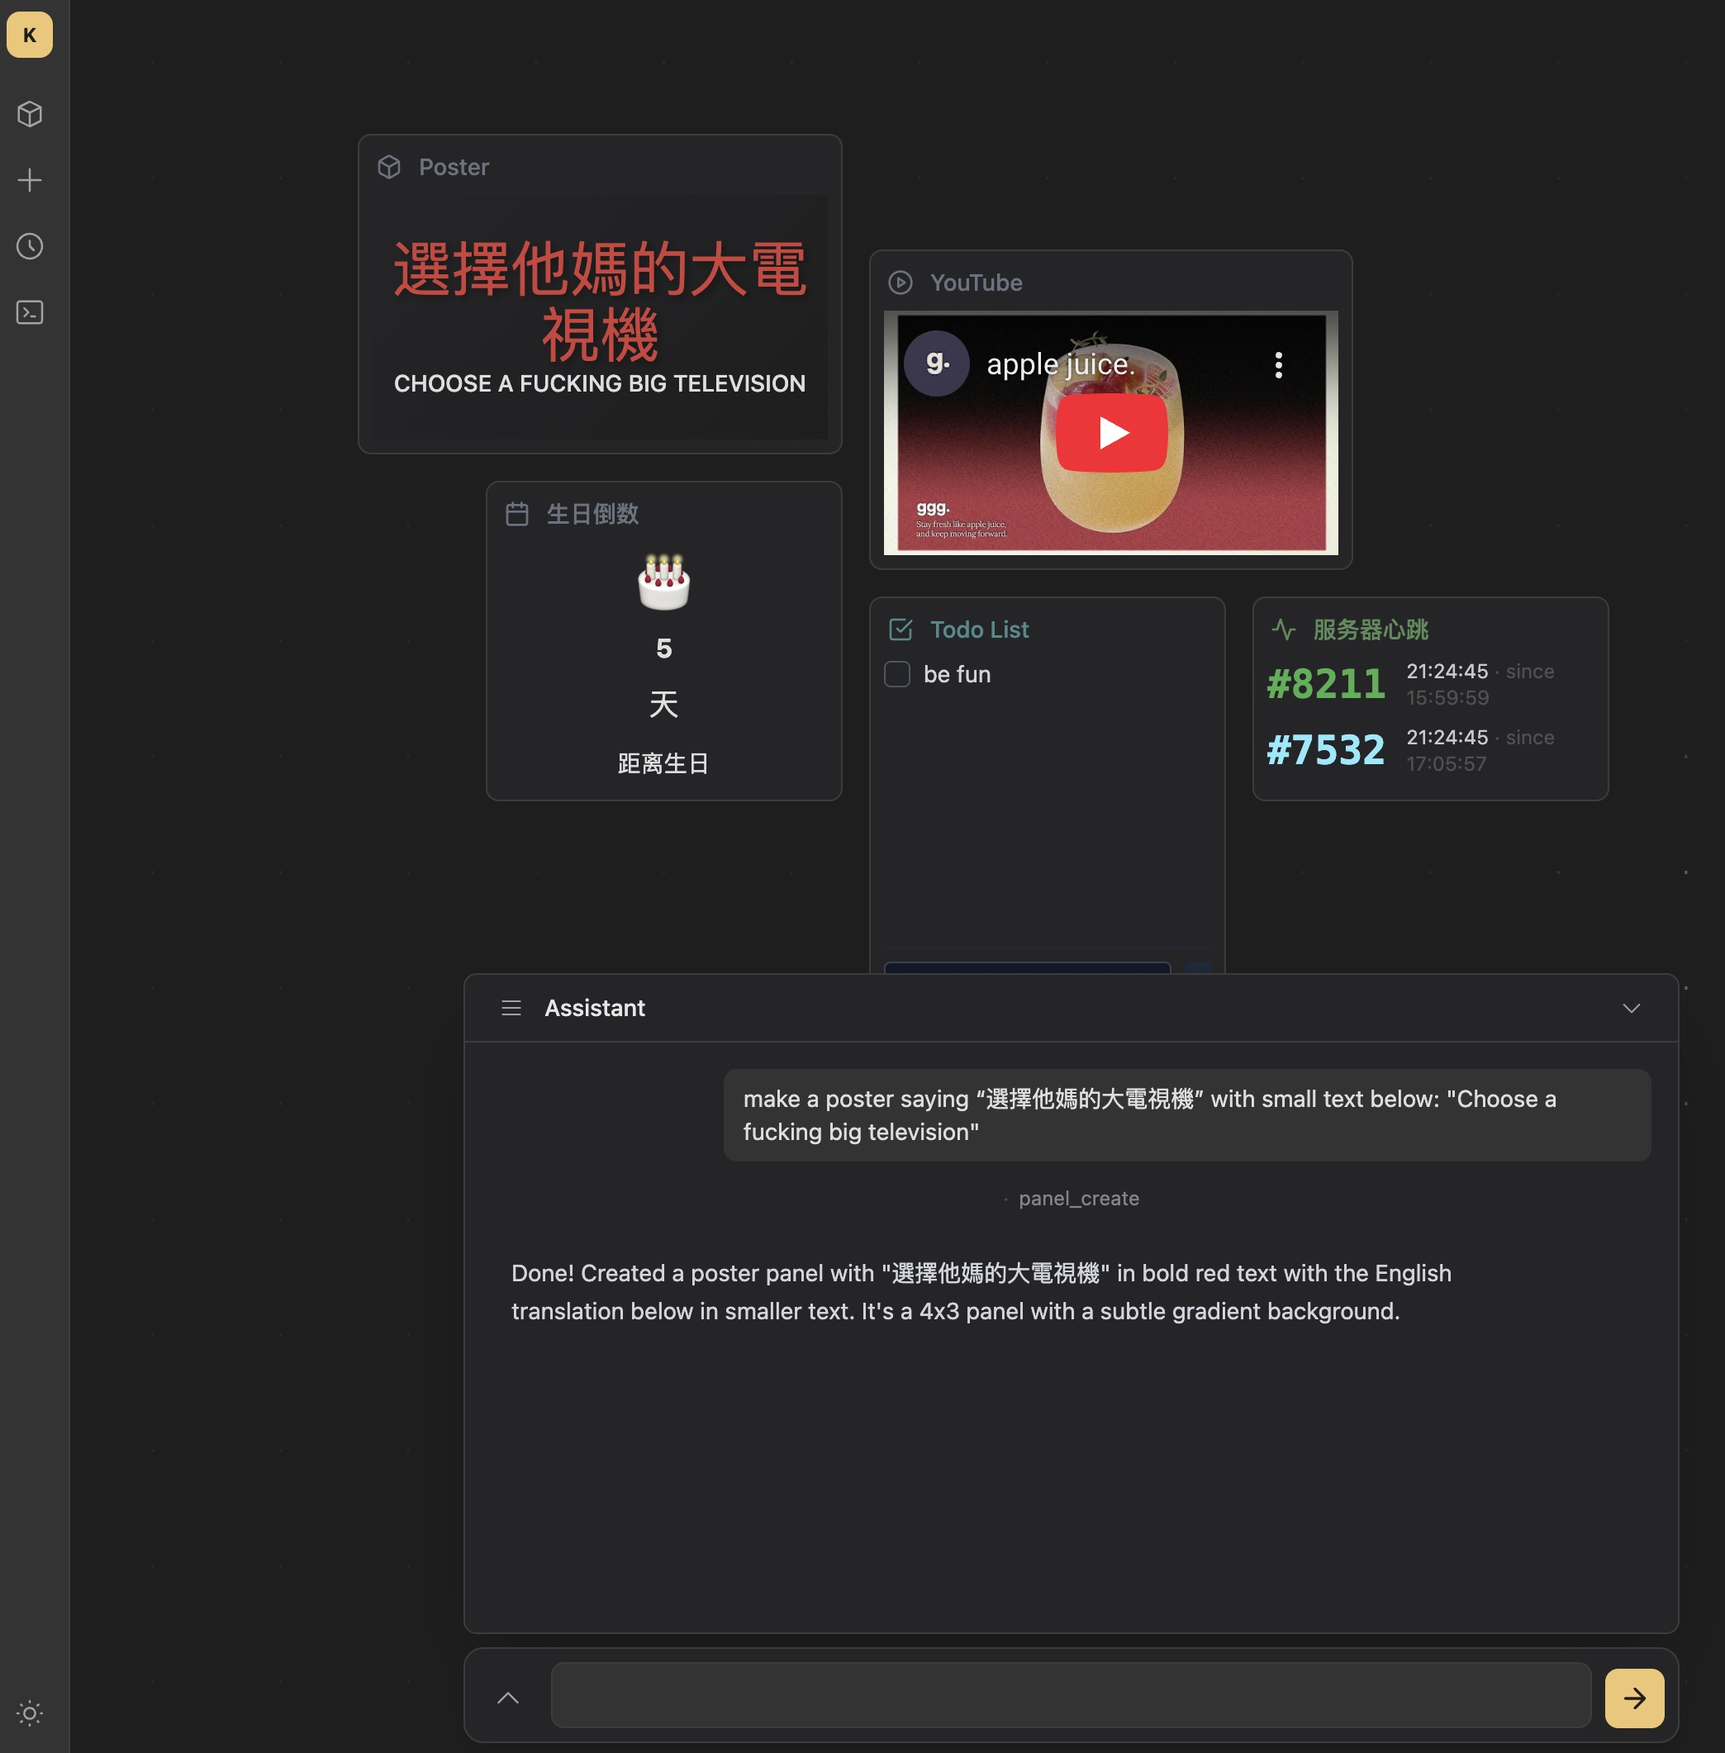
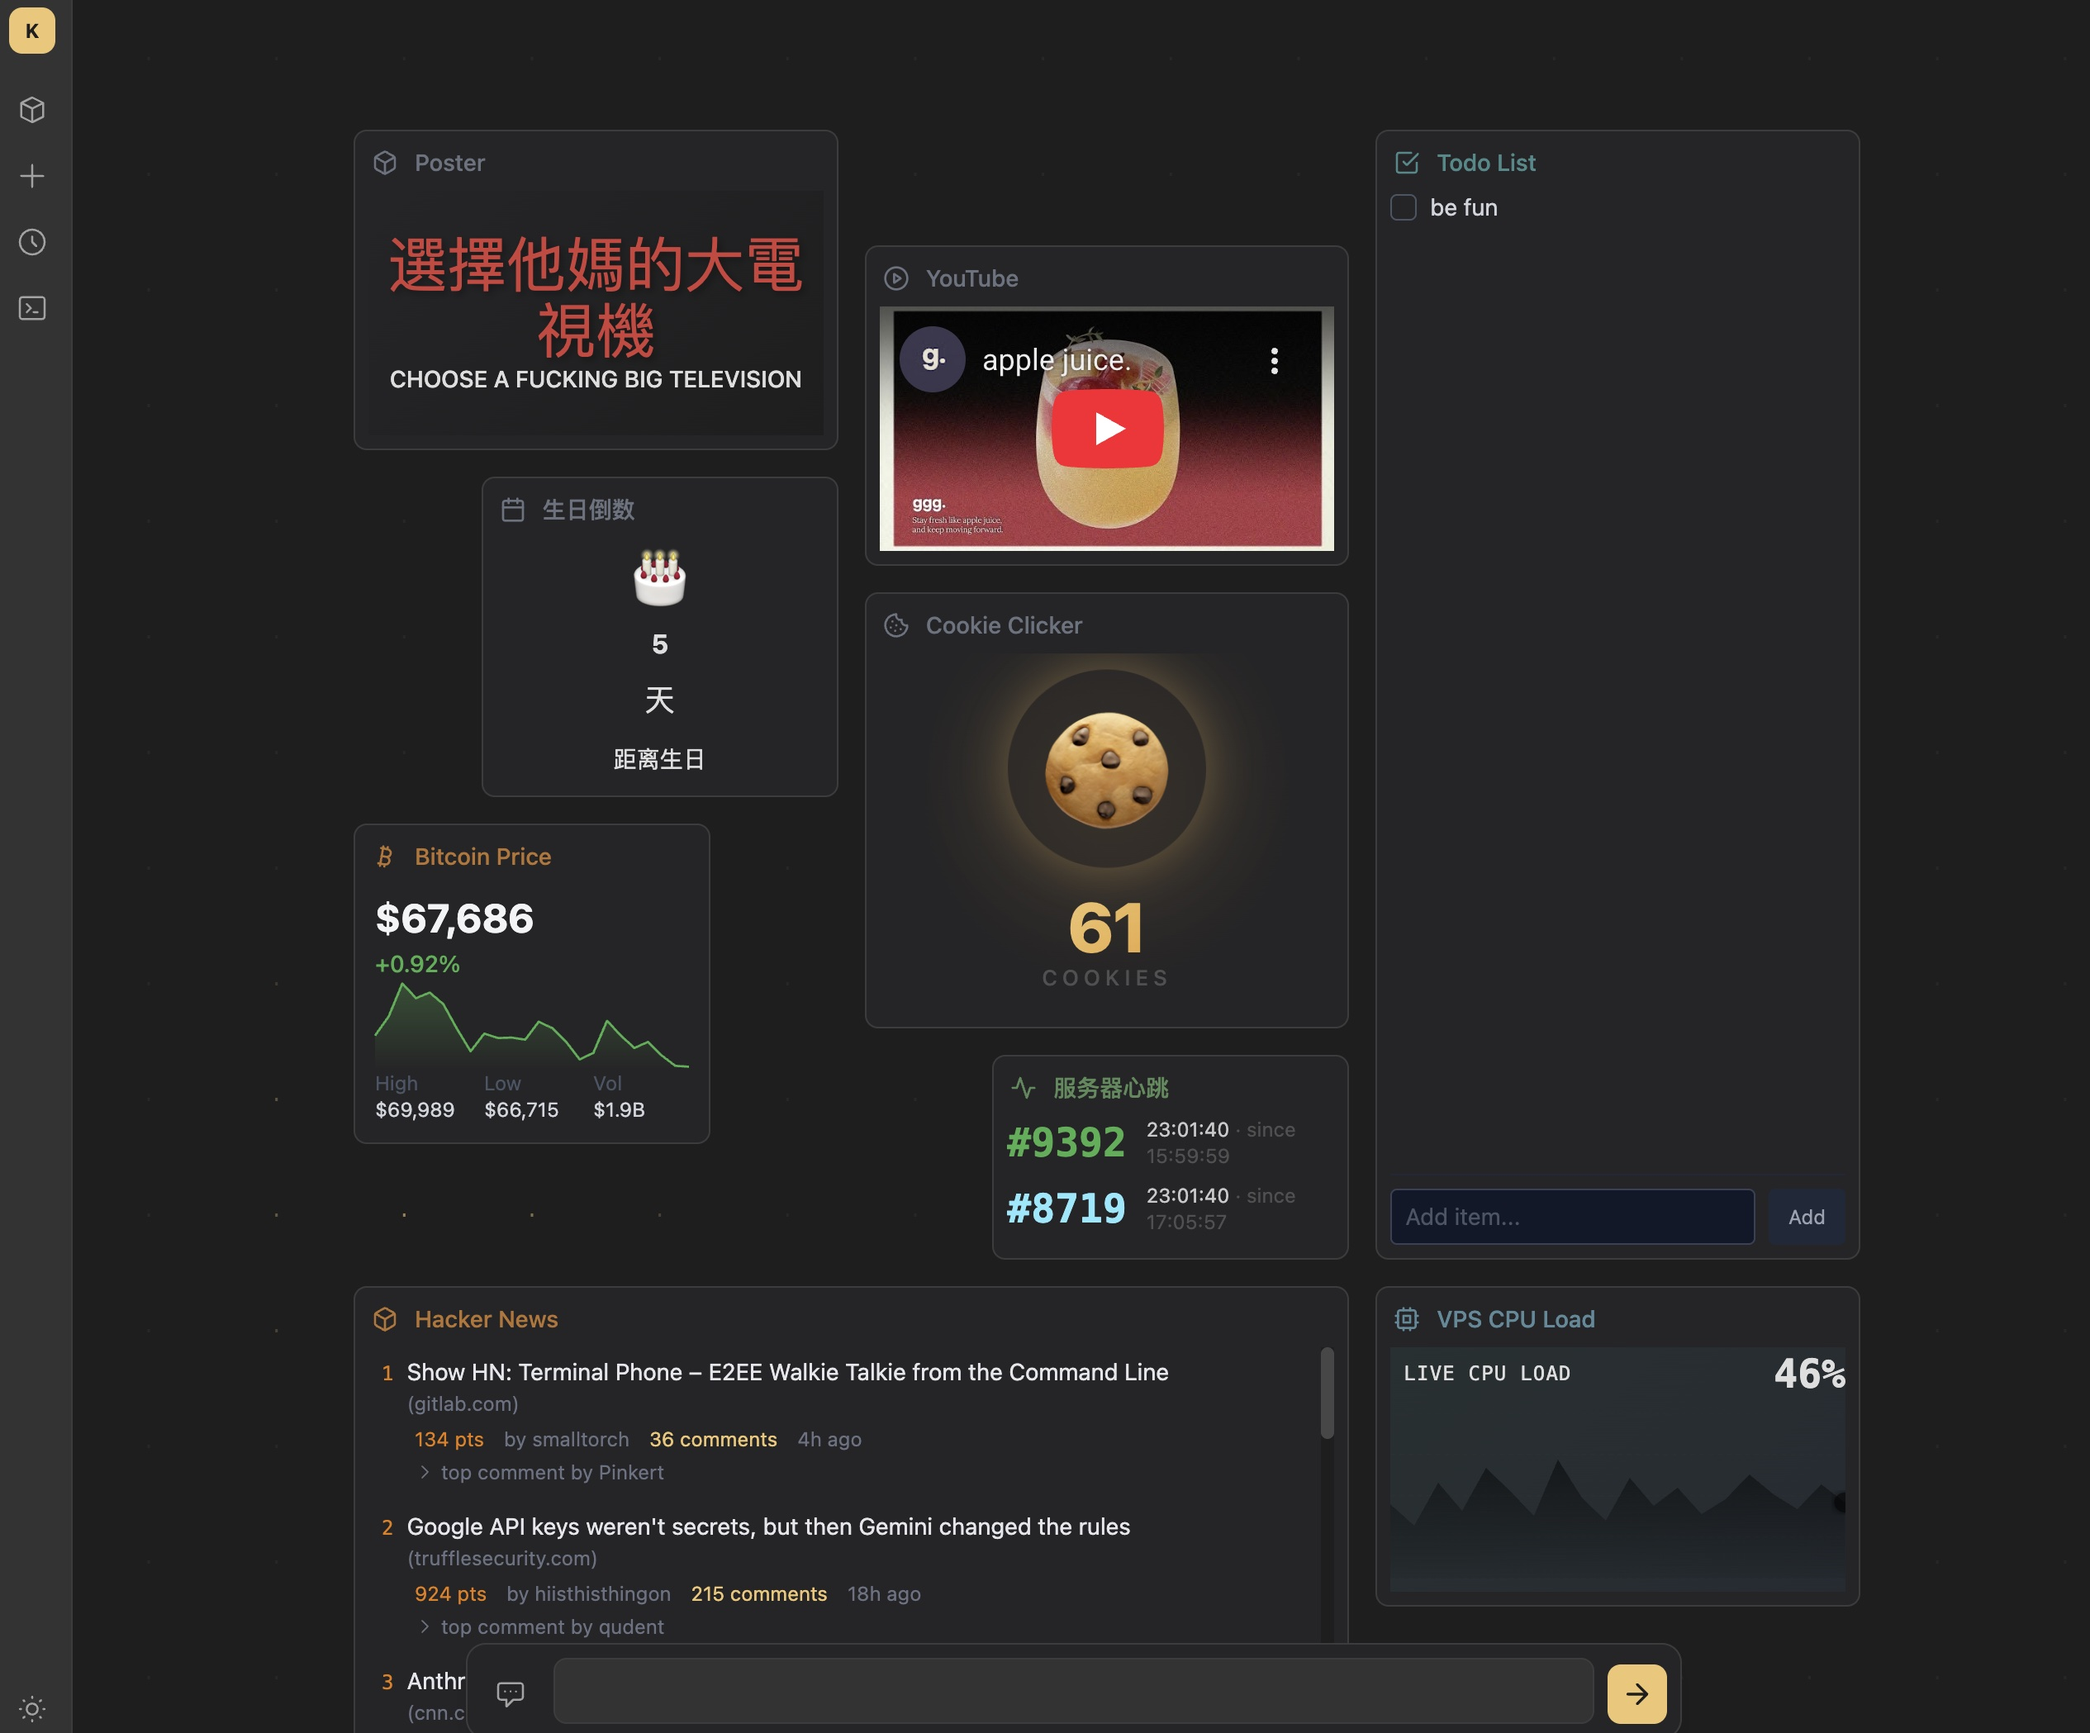
feat: add Bitcoin price panel to market
Real-time BTC/USDT from Binance API with 24h sparkline,
high/low, volume. Refreshes every minute.

diff --git a/market/bitcoin/facade.html b/market/bitcoin/facade.html
@@ -1,0 +1,81 @@
+{% set data = storage.get('bitcoin', {}) %}
+{% set price = data.get('price') %}
+{% set change = data.get('change_24h') %}
+{% set high = data.get('high_24h') %}
+{% set low = data.get('low_24h') %}
+{% set volume = data.get('volume') %}
+{% set sparkline = data.get('sparkline', []) %}
+{% set updated = data.get('updated_at', '') %}
+
+{% if price is none %}
+<div class="flex items-center justify-center h-full text-gray-500 text-sm">
+  Loading price...
+</div>
+{% else %}
+
+{% set is_up = change is not none and change >= 0 %}
+
+<div class="flex flex-col h-full justify-between p-1">
+  <!-- Price + Change -->
+  <div>
+    <div class="text-2xl font-bold tracking-tight text-gray-100">
+      ${{ "{:,.0f}".format(price) }}
+    </div>
+    {% if change is not none %}
+    <div class="text-sm font-medium mt-0.5"
+         style="color: var({{ '--kb-green' if is_up else '--kb-red' }})">
+      {{ "+" if is_up else "" }}{{ "%.2f"|format(change) }}%
+    </div>
+    {% endif %}
+  </div>
+
+  <!-- Sparkline SVG -->
+  {% if sparkline|length > 1 %}
+  {% set s_min = sparkline|min %}
+  {% set s_max = sparkline|max %}
+  {% set s_range = s_max - s_min if s_max != s_min else 1 %}
+  <div class="flex-1 my-2 min-h-0">
+    <svg viewBox="0 0 200 60" preserveAspectRatio="none" class="w-full h-full" style="overflow: visible">
+      <defs>
+        <linearGradient id="spark-fill" x1="0" y1="0" x2="0" y2="1">
+          <stop offset="0%" stop-color="var({{ '--kb-green' if is_up else '--kb-red' }})" stop-opacity="0.3"/>
+          <stop offset="100%" stop-color="var({{ '--kb-green' if is_up else '--kb-red' }})" stop-opacity="0"/>
+        </linearGradient>
+      </defs>
+      {% set points = [] %}
+      {% for val in sparkline %}
+        {% set x = (loop.index0 / (sparkline|length - 1)) * 200 %}
+        {% set y = 60 - ((val - s_min) / s_range) * 56 - 2 %}
+        {% set _ = points.append("%.1f,%.1f"|format(x, y)) %}
+      {% endfor %}
+      <polygon
+        points="0,60 {{ points|join(' ') }} 200,60"
+        fill="url(#spark-fill)"/>
+      <polyline
+        points="{{ points|join(' ') }}"
+        fill="none"
+        stroke="var({{ '--kb-green' if is_up else '--kb-red' }})"
+        stroke-width="1.5"
+        stroke-linejoin="round"/>
+    </svg>
+  </div>
+  {% endif %}
+
+  <!-- Stats -->
+  <div class="grid grid-cols-3 gap-2 text-xs text-gray-500">
+    <div>
+      <div class="text-gray-600">High</div>
+      <div class="text-gray-300">${{ "{:,.0f}".format(high) }}</div>
+    </div>
+    <div>
+      <div class="text-gray-600">Low</div>
+      <div class="text-gray-300">${{ "{:,.0f}".format(low) }}</div>
+    </div>
+    <div>
+      <div class="text-gray-600">Vol</div>
+      <div class="text-gray-300">{{ volume }}</div>
+    </div>
+  </div>
+</div>
+
+{% endif %}

diff --git a/market/bitcoin/handler.py b/market/bitcoin/handler.py
@@ -1,0 +1,54 @@
+"""Bitcoin price panel handler - fetch BTC/USDT from Binance public API."""
+from datetime import datetime
+
+import httpx
+
+TICKER_URL = "https://api.binance.com/api/v3/ticker/24hr?symbol=BTCUSDT"
+KLINES_URL = "https://api.binance.com/api/v3/klines?symbol=BTCUSDT&interval=1h&limit=24"
+
+
+def on_init(storage: dict) -> None:
+    _refresh(storage)
+
+
+def on_action(action: str, payload: dict, storage: dict) -> None:
+    if action == "refresh":
+        _refresh(storage)
+
+
+def on_schedule(storage: dict) -> None:
+    _refresh(storage)
+
+
+def _fmt_volume(v: float) -> str:
+    """Format volume to human-readable string."""
+    if v >= 1_000_000_000:
+        return f"${v / 1_000_000_000:.1f}B"
+    if v >= 1_000_000:
+        return f"${v / 1_000_000:.1f}M"
+    return f"${v:,.0f}"
+
+
+def _refresh(storage: dict) -> None:
+    btc = storage.get("bitcoin", {})
+
+    with httpx.Client(timeout=15) as client:
+        # 24h ticker
+        resp = client.get(TICKER_URL)
+        resp.raise_for_status()
+        ticker = resp.json()
+
+        btc["price"] = float(ticker["lastPrice"])
+        btc["change_24h"] = float(ticker["priceChangePercent"])
+        btc["high_24h"] = float(ticker["highPrice"])
+        btc["low_24h"] = float(ticker["lowPrice"])
+        btc["volume"] = _fmt_volume(float(ticker["quoteVolume"]))
+
+        # 24h hourly klines for sparkline
+        resp = client.get(KLINES_URL)
+        resp.raise_for_status()
+        klines = resp.json()
+        # Each kline: [open_time, open, high, low, close, ...]
+        btc["sparkline"] = [float(k[4]) for k in klines]
+
+    btc["updated_at"] = datetime.utcnow().isoformat()

diff --git a/market/README.md b/market/README.md
@@ -21,7 +21,8 @@ market/
 ├── poster/         # 海报/图片展示
 ├── countdown/      # 倒计时
 ├── cookie-clicker/ # 饼干点击器
-└── hackernews/     # Hacker News 热帖
+├── hackernews/     # Hacker News 热帖
+└── bitcoin/        # 比特币价格
 ```
 
 每个模板包含：
